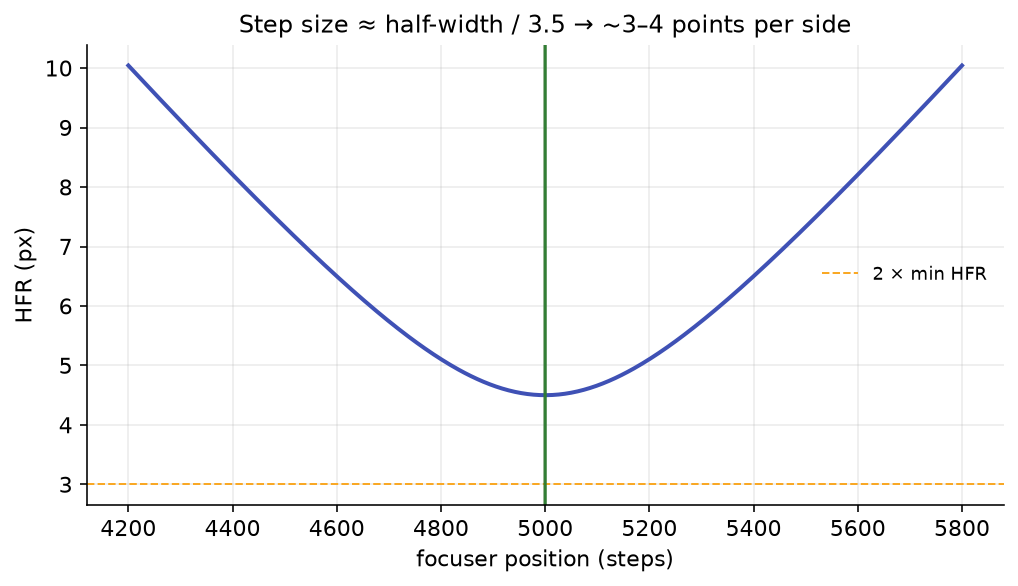
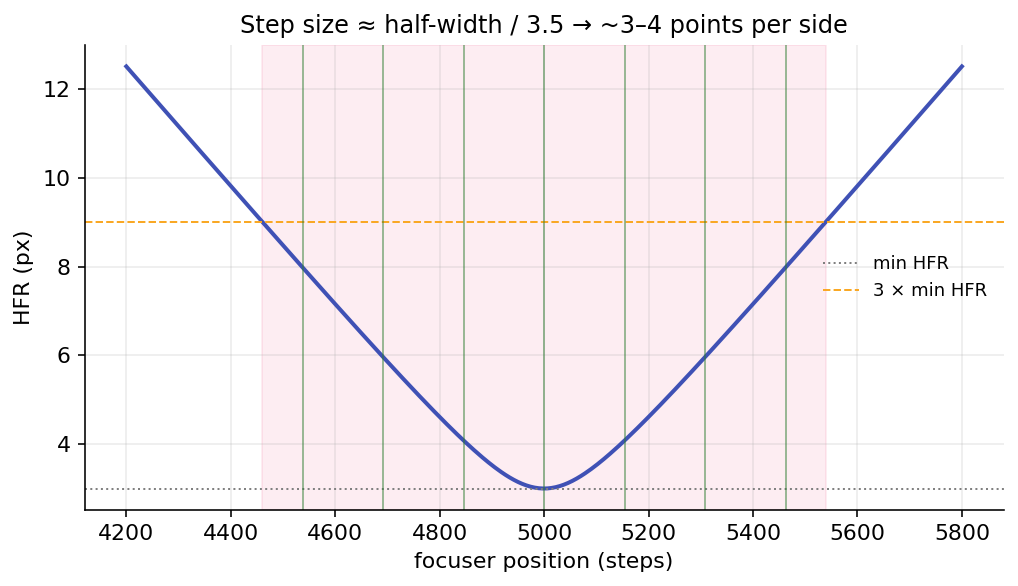
feat(step-size): use 3x min HFR for the focus-sensitive band; fix the chart
The step-size recommender sized the focus-sensitive band at 2x the minimum HFR.
Widen it to 3x so the band captures more of the curve's informative slope.

The step-size figure was also wrong: it treated the hyperbola's vertical offset
c as the minimum HFR and drew the threshold at 2*c, which fell below the curve's
true minimum (c + a) entirely. Rebuild the figure with a minimum HFR of 3 and the
threshold at 3x min HFR (= 9), correctly placed where the curve crosses it, with
a "min HFR" reference line.

Updates StepSizeRecommender (named HfrThresholdMultiple = 3.0), its tests
(W = b*sqrt(8)*a for the 3x crossing), and the step-size / af-curve-fitting /
search-algorithm docs. Full suite: 1388 passed.

Claude-Session: https://claude.ai/code/session_01UbCuns9Qdw2ZfzjQkBzZKm

diff --git a/Joko.NINA.Plugins/Joko.NINA.Plugins.HocusFocus/StarDetection/Optimization/StepSizeRecommender.cs b/Joko.NINA.Plugins/Joko.NINA.Plugins.HocusFocus/StarDetection/Optimization/StepSizeRecommender.cs
@@ -26,7 +26,7 @@ namespace NINA.Joko.Plugins.HocusFocus.StarDetection.Optimization {
 
         /// <summary>
         /// The modeled focus-sensitive half-width: the offset from best focus at which the fitted HFR reaches
-        /// twice the minimum HFR (averaged over the two sides). <see cref="double.NaN"/> for a degenerate fit.
+        /// three times the minimum HFR (averaged over the two sides). <see cref="double.NaN"/> for a degenerate fit.
         /// </summary>
         public double HalfWidth { get; set; }
     }
@@ -34,11 +34,14 @@ namespace NINA.Joko.Plugins.HocusFocus.StarDetection.Optimization {
     /// <summary>
     /// Recommends an auto-focus step size from a winning hyperbolic fit. The idea: size the step so a focus sweep
     /// lands ~3-4 measurement points on each side of focus inside the "focus-sensitive" region — the band where
-    /// HFR climbs from its minimum to roughly twice the minimum, which is where the curve carries the most slope
-    /// (and thus the most information). The half-width W of that band is read directly off the fitted model, and
-    /// the step is W / 3.5 (so the band holds ~3-4 points per side).
+    /// HFR climbs from its minimum to roughly three times the minimum, which is where the curve carries the most
+    /// slope (and thus the most information). The half-width W of that band is read directly off the fitted model,
+    /// and the step is W / 3.5 (so the band holds ~3-4 points per side).
     /// </summary>
     public static class StepSizeRecommender {
+        // The focus-sensitive band runs from the minimum HFR up to this multiple of it; its half-width sets the step.
+        private const double HfrThresholdMultiple = 3.0;
+
         // Targeted points per side within the focus-sensitive band [x0, x0 + W]: W / PointsPerSide steps.
         private const double PointsPerSide = 3.5;
 
@@ -67,9 +70,9 @@ namespace NINA.Joko.Plugins.HocusFocus.StarDetection.Optimization {
             }
 
             var fitting = bestFit.Fitting;
-            var target = 2.0 * minHfr;
+            var target = HfrThresholdMultiple * minHfr;
 
-            // Search outward from x0 in both directions for the offset where HFR == 2*minHfr.
+            // Search outward from x0 in both directions for the offset where HFR == HfrThresholdMultiple*minHfr.
             var searchSpan = SearchSpan(bestFit);
             var rightW = FindHalfWidth(fitting, x0, +1.0, target, searchSpan);
             var leftW = FindHalfWidth(fitting, x0, -1.0, target, searchSpan);
@@ -155,7 +158,7 @@ namespace NINA.Joko.Plugins.HocusFocus.StarDetection.Optimization {
                 }
                 prevOffset = offset;
             }
-            return double.NaN; // never reached 2*min within the budget (near-flat / degenerate)
+            return double.NaN; // never reached 3*min within the budget (near-flat / degenerate)
         }
 
         private static double Bisect(Func<double, double> fitting, double x0, double direction, double target, double lo, double hi) {

diff --git a/Joko.NINA.Plugins/Joko.NINA.Plugins.HocusFocus.Tests/StarDetection/Optimization/StepSizeRecommenderTests.cs b/Joko.NINA.Plugins/Joko.NINA.Plugins.HocusFocus.Tests/StarDetection/Optimization/StepSizeRecommenderTests.cs
@@ -24,12 +24,12 @@ namespace NINA.Joko.Plugins.HocusFocus.Tests.StarDetection.Optimization;
 [TestFixture]
 public class StepSizeRecommenderTests {
 
-    // Symmetric hyperbola hfr(pos) = sqrt(a^2 + ((pos - p0)/b)^2). The offset W where hfr == 2*minHfr (== 2a)
-    // satisfies 4a^2 = a^2 + (W/b)^2 => W = b*sqrt(3)*a. With a=1.5, b=8 => W = 8*sqrt(3)*1.5 ~= 20.78.
+    // Symmetric hyperbola hfr(pos) = sqrt(a^2 + ((pos - p0)/b)^2). The offset W where hfr == 3*minHfr (== 3a)
+    // satisfies 9a^2 = a^2 + (W/b)^2 => W = b*sqrt(8)*a. With a=1.5, b=8 => W = 8*sqrt(8)*1.5 ~= 33.94.
     private const double A = 1.5;
     private const double B = 8.0;
     private const int P0 = 10000;
-    private static double ExpectedHalfWidth => B * Math.Sqrt(3.0) * A; // ~20.78
+    private static double ExpectedHalfWidth => B * Math.Sqrt(8.0) * A; // ~33.94
 
     private static AlglibHyperbolicFitting FitCleanHyperbola() {
         var alglib = new AlglibAPI();
@@ -50,9 +50,9 @@ public class StepSizeRecommenderTests {
         var fit = FitCleanHyperbola();
         var rec = StepSizeRecommender.Recommend(fit, currentStepSize: 100);
 
-        var expectedStep = (int)Math.Round(ExpectedHalfWidth / 3.5); // ~6
+        var expectedStep = (int)Math.Round(ExpectedHalfWidth / 3.5); // ~10
         Assert.Multiple(() => {
-            Assert.That(rec.HalfWidth, Is.EqualTo(ExpectedHalfWidth).Within(2.0), "modeled 2x-min-HFR half-width");
+            Assert.That(rec.HalfWidth, Is.EqualTo(ExpectedHalfWidth).Within(2.0), "modeled 3x-min-HFR half-width");
             Assert.That(rec.StepSize, Is.EqualTo(expectedStep).Within(1), "step size ~= round(W / 3.5) so the sweep has ~3-4 points/side");
             Assert.That(rec.OffsetSteps, Is.EqualTo(4));
         });

diff --git a/documentation/figures/generate_figures.py b/documentation/figures/generate_figures.py
@@ -661,15 +661,20 @@ def fig_compass_search(out_dir):
 
 
 def fig_step_size(out_dir):
-    xmin, a, b, c = 5000.0, 3.0, 300.0, 1.5
+    # _hyperbola(x) = c + a*sqrt(1 + ((x-xmin)/b)^2), so its minimum (best-focus HFR) is c + a.
+    # Use a minimum HFR of 3, and a curve width (b) that puts the 3x-min crossing comfortably in view.
+    xmin, a, c, b = 5000.0, 1.5, 1.5, 110.0
+    min_hfr = c + a  # 3.0
     x = np.linspace(4200, 5800, 400)
     y = _hyperbola(x, xmin, a, b, c)
-    two_min = 2 * c
+    target = 3.0 * min_hfr  # 3 × min HFR == 9
     fig, ax = plt.subplots(figsize=(7.2, 4.2))
     ax.plot(x, y, color=ACCENT, lw=2)
-    ax.axhline(two_min, color=WARN, ls="--", lw=1, label="2 × min HFR")
-    # find half-width where HFR == 2*min
-    right = x[np.argmin(np.abs(y[x > xmin] - two_min)) + np.sum(x <= xmin)]
+    ax.axhline(min_hfr, color="0.5", ls=":", lw=1, label="min HFR")
+    ax.axhline(target, color=WARN, ls="--", lw=1, label="3 × min HFR")
+    # find half-width where HFR == 3*min
+    right_mask = x > xmin
+    right = x[right_mask][np.argmin(np.abs(y[right_mask] - target))]
     hw = right - xmin
     step = hw / 3.5
     for k in range(-3, 4):

diff --git a/documentation/docs/optimization/af-curve-fitting.md b/documentation/docs/optimization/af-curve-fitting.md
@@ -143,19 +143,19 @@ rather than the fit; it is covered alongside the full weighting in
 The same winning fit also drives the wizard's **step-size recommendation**, which is reported (and
 applied on confirm) but is *not* part of the score. The idea is to size the auto-focus step so a sweep
 lands roughly 3–4 measurement points on each side of focus inside the "focus-sensitive" band, the
-region where HFR climbs from its minimum to about twice the minimum, which carries the most slope and
+region where HFR climbs from its minimum to about three times the minimum, which carries the most slope and
 therefore the most information.
 
-![Step size derived from the half-width where HFR reaches twice the minimum, targeting about 3.5 points per side](../assets/figures/step-size.png){ width=620 }
+![Step size derived from the half-width where HFR reaches three times the minimum, targeting about 3.5 points per side](../assets/figures/step-size.png){ width=620 }
 
 *The wizard reads the half-width \(W\) (the offset from best focus at which the fitted HFR reaches
-\(2 \times\) the minimum HFR, averaged over the two sides) and recommends a step of \(W / 3.5\), so
+\(3 \times\) the minimum HFR, averaged over the two sides) and recommends a step of \(W / 3.5\), so
 the focus-sensitive band holds about 3–4 points per side. The recommendation defaults to 4 offset
 steps per side and is clamped to at least 1 (and to the focuser's limits when known).*
 
 !!! tip "When this helps"
     A degenerate or near-flat fit (no finite minimum, non-positive minimum HFR, or a curve that never
-    reaches twice the minimum within the search budget) yields no usable half-width; the wizard then
+    reaches three times the minimum within the search budget) yields no usable half-width; the wizard then
     leaves your current step size unchanged rather than guessing. Trust the recommendation most when
     the fit is clean and the V-curve is well-formed, exactly the runs where the optimizer also scores
     high.

diff --git a/documentation/docs/optimization/step-size.md b/documentation/docs/optimization/step-size.md
@@ -12,21 +12,21 @@ the suggestion reflects detection settings that have already been tuned for your
 ## The focus-sensitive band
 
 Far from focus the HFR curve is steep and almost linear; near the minimum it flattens. The band that matters
-for pinning the minimum is where HFR climbs from its minimum value up to roughly twice that minimum. The
+for pinning the minimum is where HFR climbs from its minimum value up to roughly three times that minimum. The
 recommender measures the half-width of that band:
 
 \[
-\text{HFR}(p_{\text{focus}} \pm \text{halfWidth}) \;=\; 2 \cdot \text{HFR}_{\min}
+\text{HFR}(p_{\text{focus}} \pm \text{halfWidth}) \;=\; 3 \cdot \text{HFR}_{\min}
 \]
 
 Starting from the fitted best-focus position, it searches **outward in both directions** for the offset at
-which the fitted HFR reaches \(2 \times \text{HFR}_{\min}\): a coarse outward walk brackets the target, then a
+which the fitted HFR reaches \(3 \times \text{HFR}_{\min}\): a coarse outward walk brackets the target, then a
 bisection refines it to high precision. The search is bounded (at most a few times the sampled focuser span)
 so a flat or degenerate fit cannot send it off to infinity. The left and right offsets are **averaged** so an
 asymmetric model still yields a single half-width.
 
-![Step size derived from the 2x-minimum-HFR half-width with about 3.5 points per side](../assets/figures/step-size.png){ width=620 }
-*The shaded band spans the region where HFR is below twice its minimum. The recommended step (green lines)
+![Step size derived from the 3x-minimum-HFR half-width with about 3.5 points per side](../assets/figures/step-size.png){ width=620 }
+*The shaded band spans the region where HFR is below three times its minimum. The recommended step (green lines)
 divides each side of that band into roughly 3–4 measurement points.*
 
 ## From half-width to step size

diff --git a/documentation/docs/optimization/search-algorithm.md b/documentation/docs/optimization/search-algorithm.md
@@ -174,7 +174,7 @@ so the speedup is free. Measured end to end, the early/late split plus bounded p
 
 The recommended auto-focus step size is **derived from the winning fit, not searched** — it is not one
 of the optimizer's variables. From the fitted curve, the recommender finds the focus-sensitive
-half-width \(W\): the offset from best focus at which the modeled HFR reaches twice the minimum HFR
+half-width \(W\): the offset from best focus at which the modeled HFR reaches three times the minimum HFR
 (averaged over the two sides to handle an asymmetric model). It then sets the step to
 \(W / 3.5\), so a sweep lands roughly 3–4 measurement points per side inside the band where the curve
 carries the most slope, with a default of 4 offset steps per side. The result is clamped to at least
